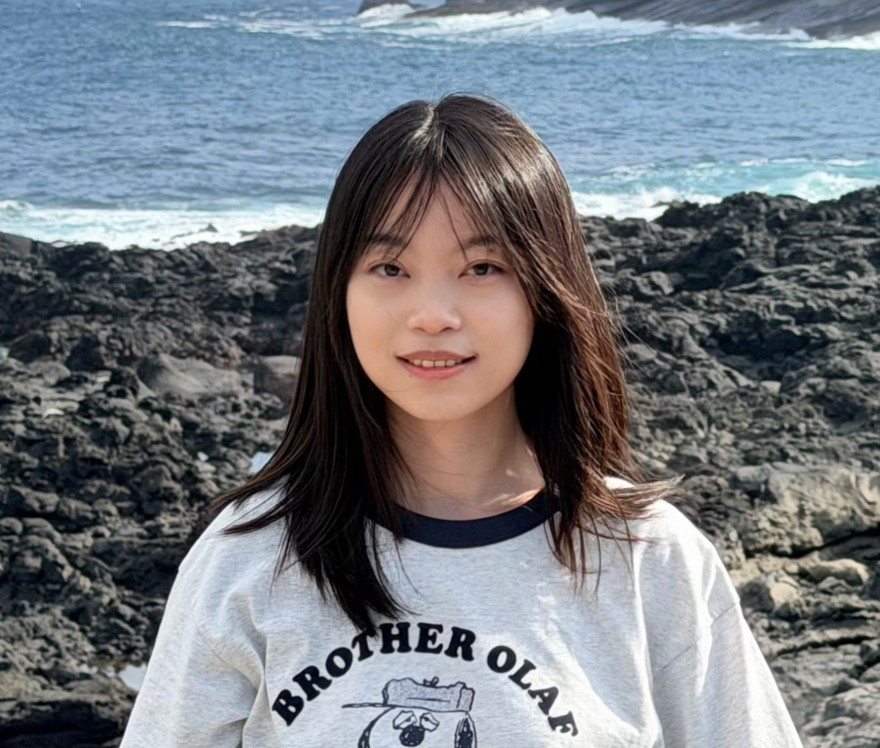
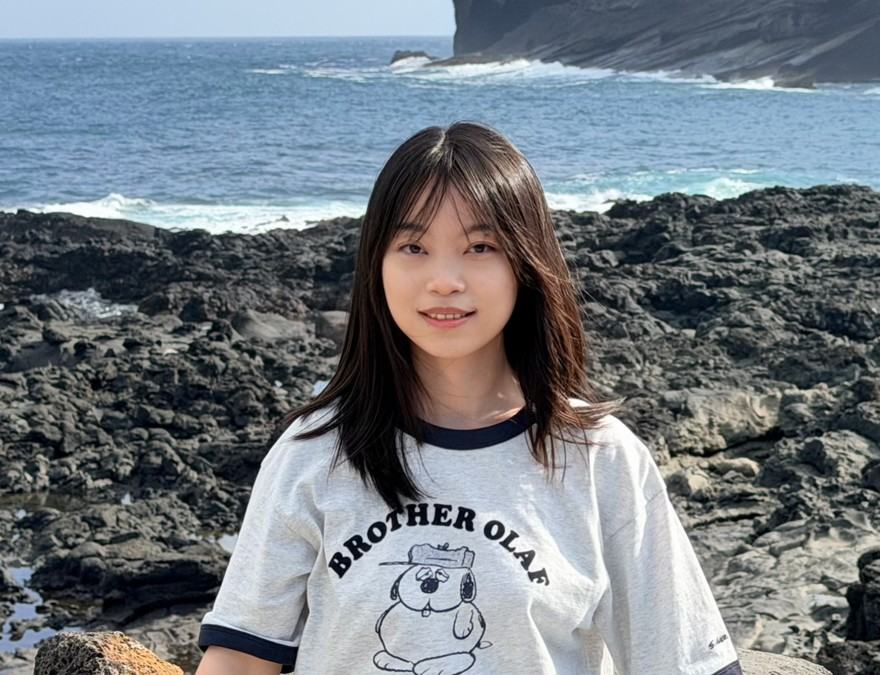
add information

diff --git a/_pages/about.md b/_pages/about.md
@@ -74,7 +74,7 @@ My research focuses on <span class="research-highlight">LLM post-training</span>
     <img class="experience-logo" src="{{ '/assets/img/logos/shanghai-ai-lab.png' | relative_url }}" alt="Shanghai AI Laboratory logo" loading="lazy" />
     <div class="experience-body">
       <div class="experience-role">Research Intern</div>
-      <div class="experience-org">Shanghai Artificial Intelligence Laboratory</div>
+      <div class="experience-org">Shanghai Artificial Intelligence Laboratory · Frontier Exploration Center</div>
     </div>
     <div class="experience-date">Aug 2025 – Present</div>
   </div>
@@ -82,7 +82,7 @@ My research focuses on <span class="research-highlight">LLM post-training</span>
     <img class="experience-logo" src="{{ '/assets/img/logos/xiaohongshu.png' | relative_url }}" alt="Xiaohongshu logo" loading="lazy" />
     <div class="experience-body">
       <div class="experience-role">Research Intern</div>
-      <div class="experience-org">Xiaohongshu (RedNote)</div>
+      <div class="experience-org">Xiaohongshu (RedNote) · Content Understanding Group, Applied Algorithms</div>
     </div>
     <div class="experience-date">Jul 2024 – Jul 2025</div>
   </div>
@@ -107,17 +107,60 @@ My research focuses on <span class="research-highlight">LLM post-training</span>
   @import url("https://cdn.jsdelivr.net/npm/@fontsource/source-serif-4@5.1.0/600.css");
 
   /* ---------------------------------------------------------------------
-   * Palette — quiet ink-teal accent, overriding the theme default
+   * Palette — quiet ink-teal accent. The theme's compiled main.css is not
+   * shipped correctly, so the full light/dark variable sets live here.
    * ------------------------------------------------------------------- */
   :root {
+    color-scheme: light;
+    --global-bg-color: #ffffff;
+    --global-text-color: #1a1a1a;
+    --global-text-color-light: #767676;
     --global-theme-color: #0e7490;
     --global-hover-color: #0e7490;
+    --global-divider-color: rgba(0, 0, 0, 0.1);
+    --global-card-bg-color: #ffffff;
   }
 
-  html[data-theme="dark"],
-  html[data-theme-setting="dark"] {
+  html[data-theme="dark"] {
+    color-scheme: dark;
+    --global-bg-color: #1c1c1d;
+    --global-text-color: #d9d9d9;
+    --global-text-color-light: #9a9aa0;
     --global-theme-color: #6cc5d4;
     --global-hover-color: #6cc5d4;
+    --global-divider-color: #424246;
+    --global-card-bg-color: #242428;
+  }
+
+  html,
+  body {
+    background: var(--global-bg-color);
+    color: var(--global-text-color);
+  }
+
+  a,
+  .post a,
+  .post article a {
+    color: var(--global-theme-color);
+  }
+
+  h1,
+  h2,
+  h3,
+  .post-title,
+  .publications .title {
+    color: var(--global-text-color);
+  }
+
+  /* keep university/company logos legible on a dark background */
+  html[data-theme="dark"] .experience-logo {
+    background: #f4f4f5;
+    padding: 3px;
+    box-sizing: border-box;
+  }
+
+  html[data-theme="dark"] .profile img {
+    box-shadow: 0 6px 22px rgba(0, 0, 0, 0.45);
   }
 
   /* soft radial tint at the top of the page */
@@ -362,6 +405,18 @@ My research focuses on <span class="research-highlight">LLM post-training</span>
     border: 0;
     font-size: 0.92rem;
     line-height: 1.6;
+    color: var(--global-text-color);
+  }
+
+  .news .table,
+  .news .table th,
+  .news .table td {
+    color: var(--global-text-color);
+    background: transparent;
+  }
+
+  .news .table th {
+    color: var(--global-theme-color);
   }
 
   /* ---------------------------------------------------------------------
